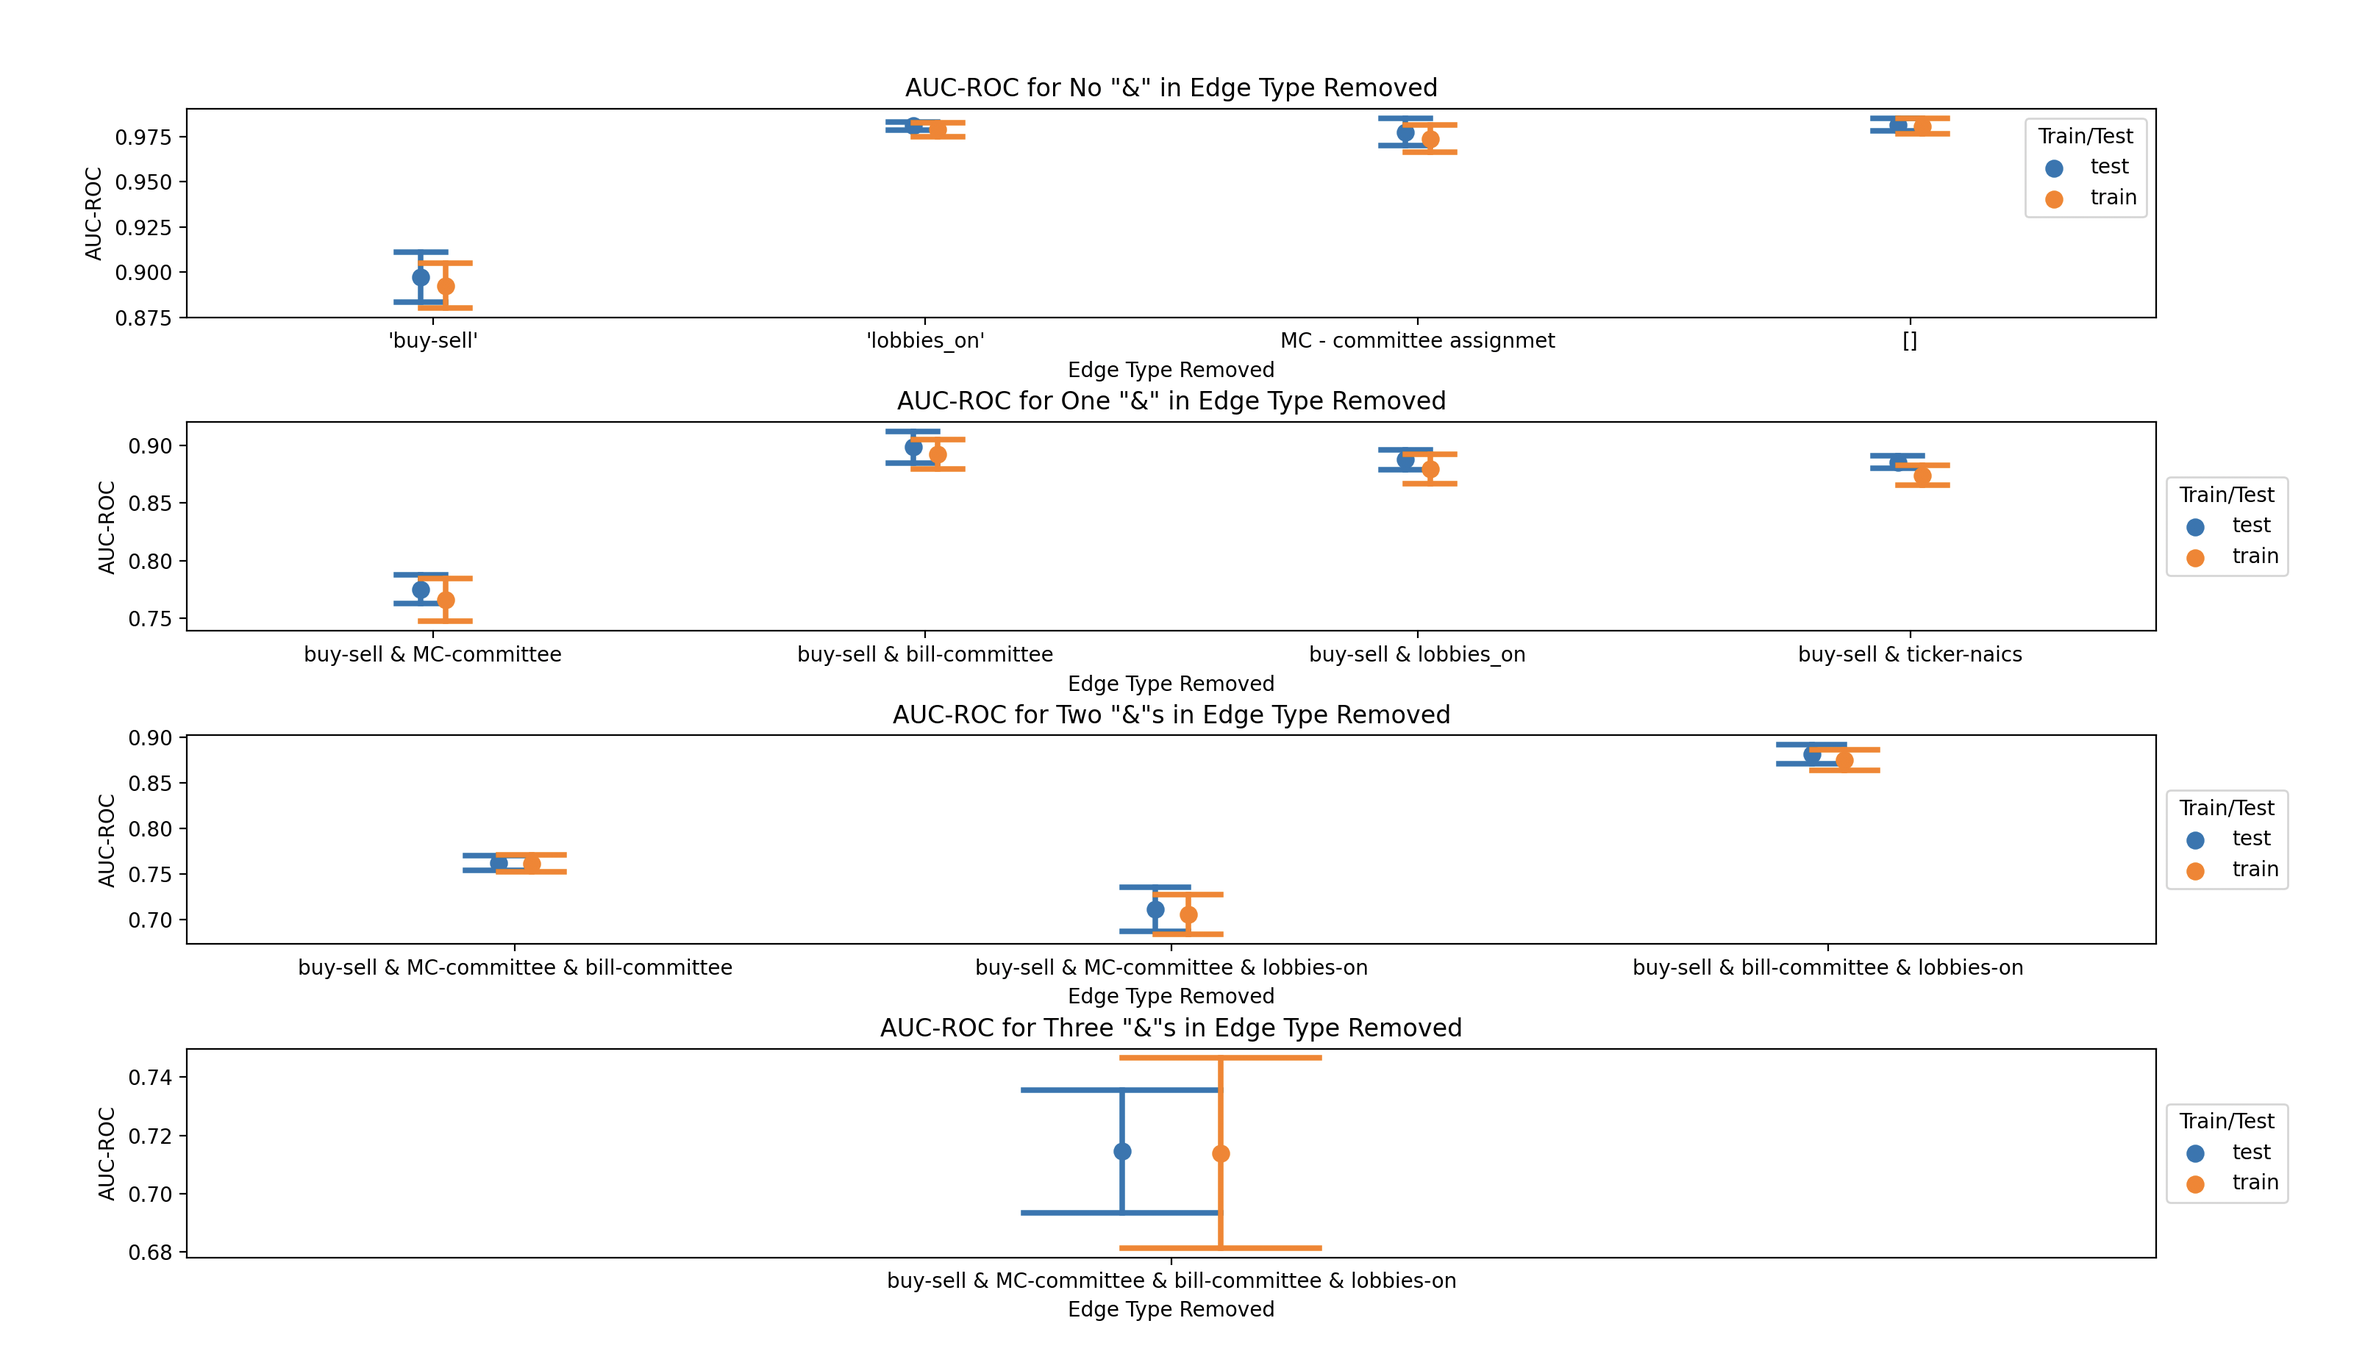
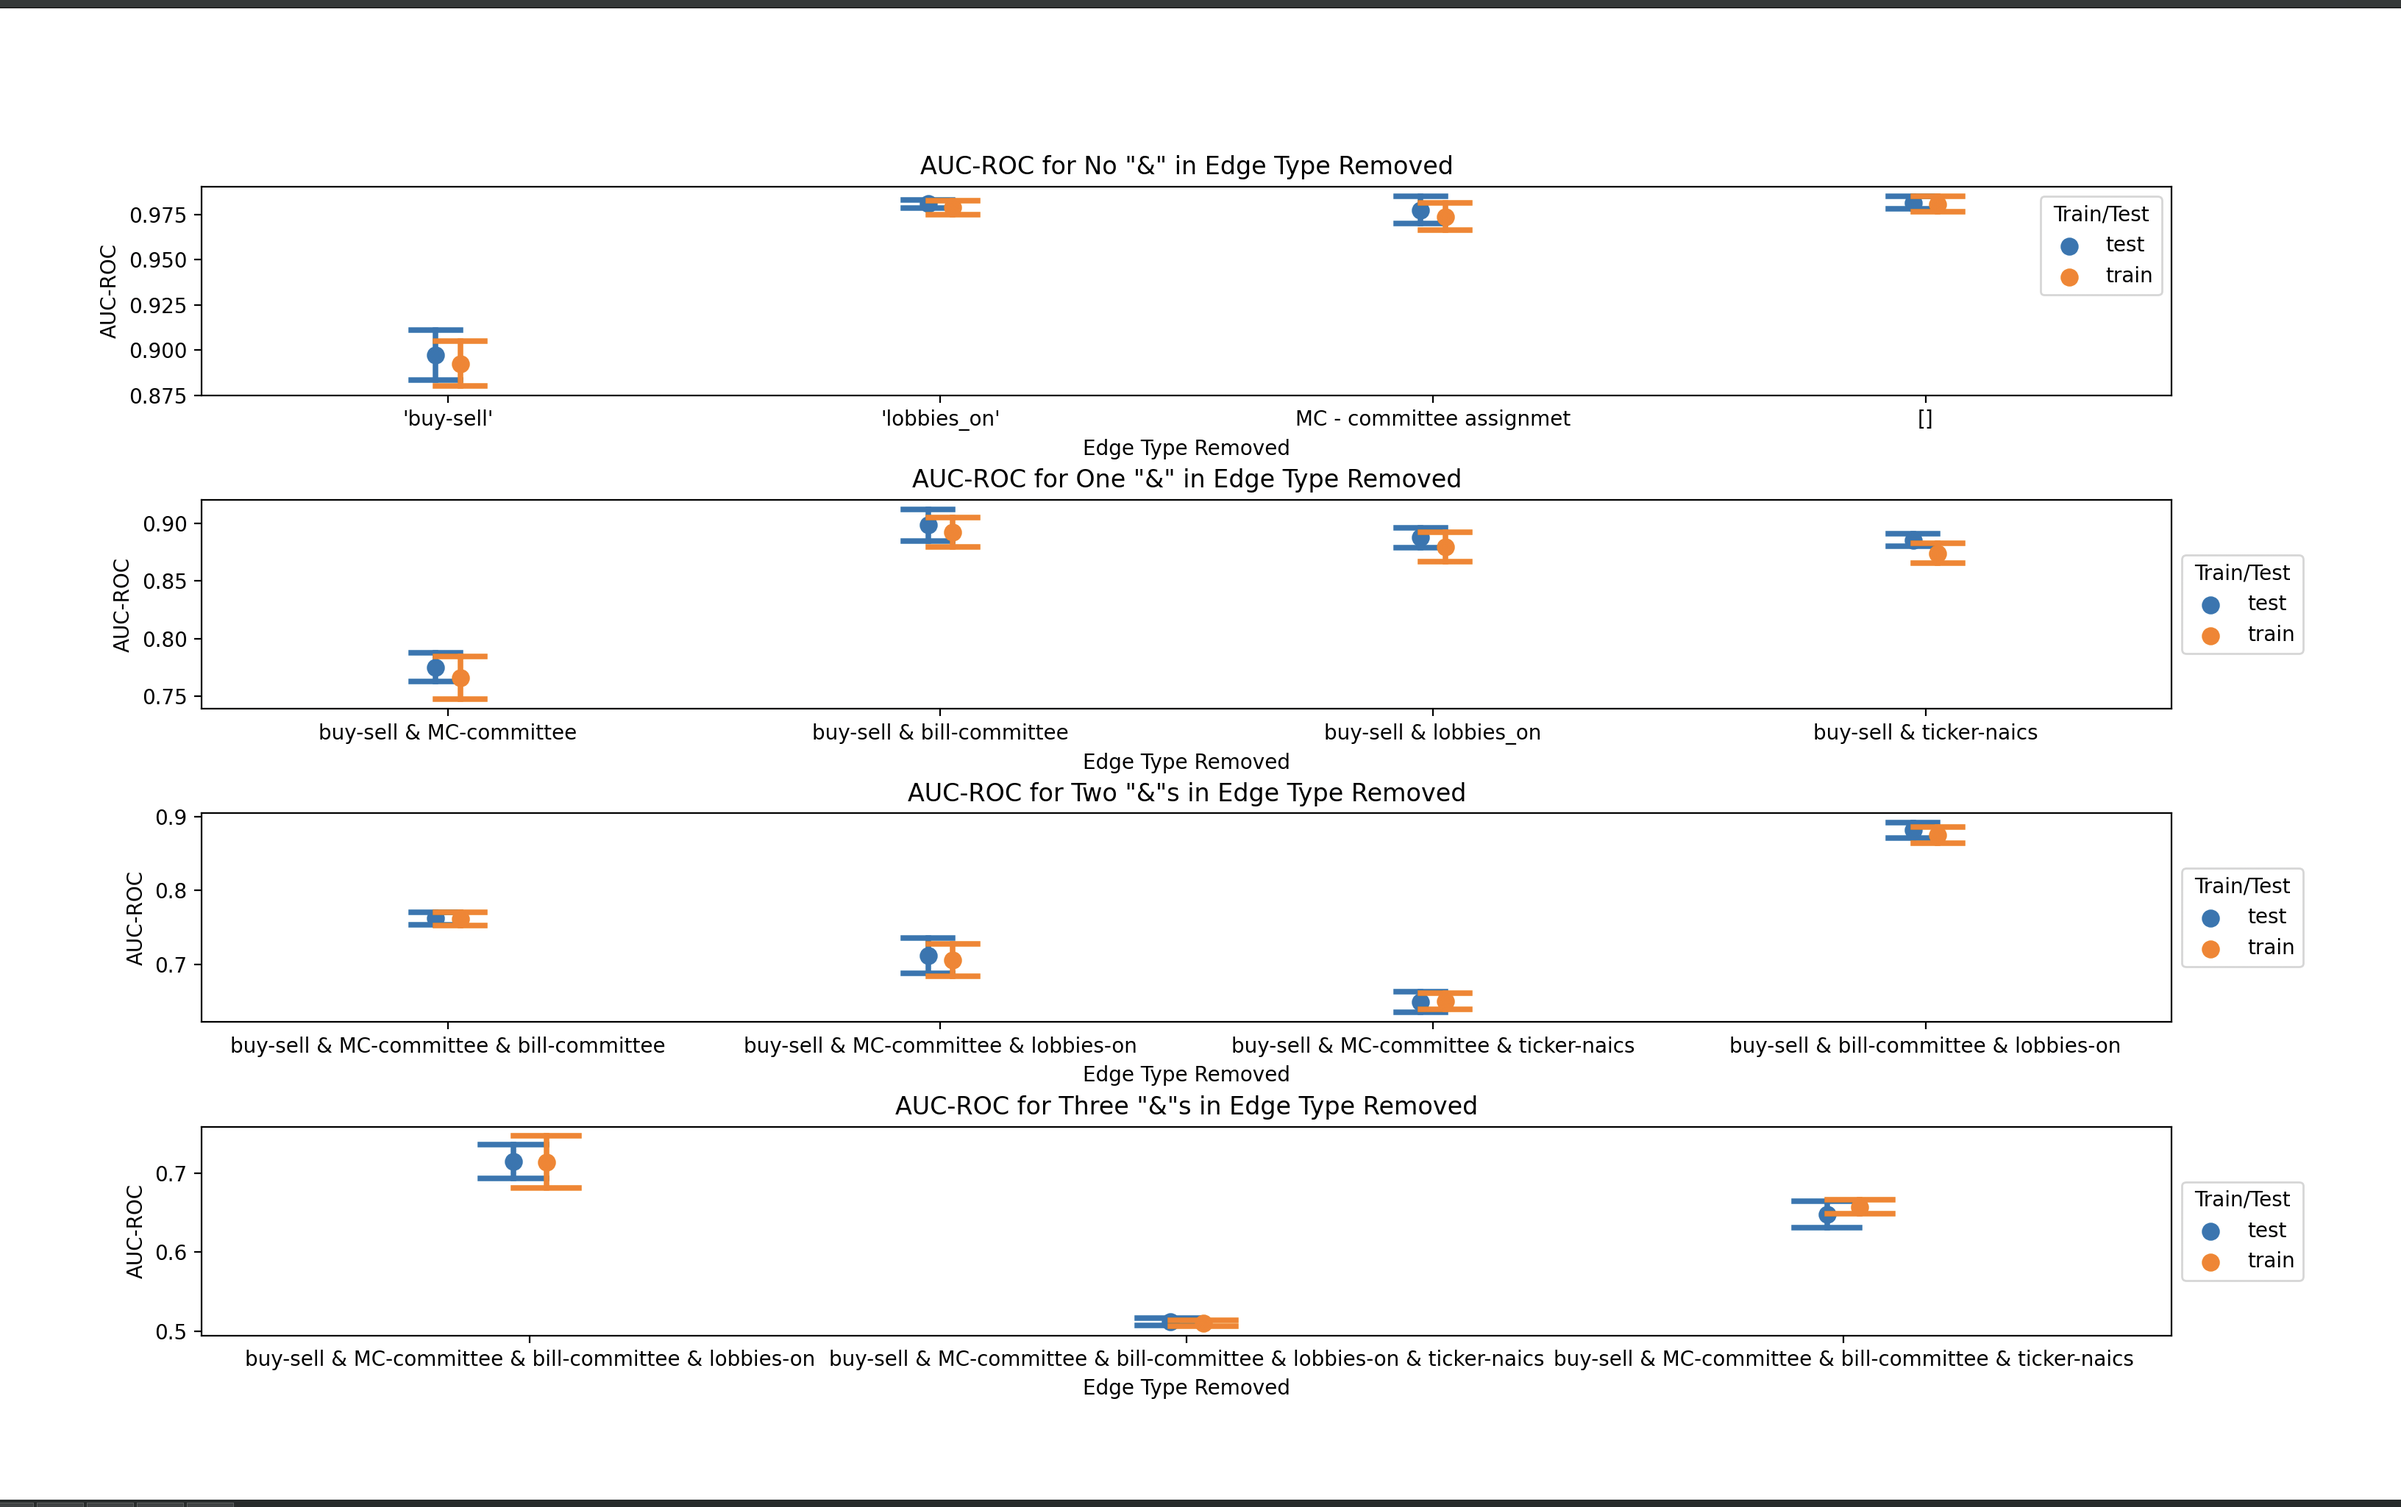
add all

diff --git a/hetero/visualize-whole.py b/hetero/visualize-whole.py
@@ -284,7 +284,7 @@ def get_thresholded_subgraph(G, node_masks, edge_masks, node_mask_threshold, edg
     # target_ticker-target_naics  congresperson 
     # add top_k edges for for target_naics for the edge type ('naics', 'classified', 'ticker')
     edge_types = [('ticker', 'classified', 'naics'), ('naics', 'rev_classified', 'ticker')]
-    top_k = 10 #At most 10 edges in the same industry
+    top_k = 20 #At most 10 edges in the same industry
     for edge_type in edge_types:
         edge_mask = edge_masks[edge_type]
 
@@ -311,7 +311,7 @@ def get_thresholded_subgraph(G, node_masks, edge_masks, node_mask_threshold, edg
     print("Ticker nodes: ", ticker_nodes)
 
     # Initialize a variable for the top_l edges and look_back period
-    top_l = 20
+    top_l = 1 # lobbying edge
     look_back = 365
 
     for edge_type in lobbies_edge_types:
@@ -547,7 +547,9 @@ shapes = {
 # read files in exp/trans_edge_not_included/results
 import os
 # folder_path = "exp/trans_edge_not_included/results_legacy"
-folder_path = "exp/trans_edge_not_included/results"
+# folder_path = "exp/trans_edge_not_included/results"
+folder_path = "exp/trans_edge_not_included/results_wyden_klac"
+
 
 pkl_files = [f for f in os.listdir(folder_path) if f.endswith('.pkl')]
 

diff --git a/hetero/visualize-barplots-subplots.py b/hetero/visualize-barplots-subplots.py
@@ -34,7 +34,7 @@ plt.title('AUC-ROC for Two "&"s in Edge Type Removed')
 plt.legend(title='Train/Test', loc='center left', bbox_to_anchor=(1, 0.5))
 
 plt.subplot(4, 1, 4)
-sns.pointplot(data=df_max_epoch[df_max_epoch['edge_type_removed'].str.count('&') > 3], x='edge_type_removed', y='auc_roc', hue='train_test', ci='sd', capsize=0.1, dodge=True, linestyles='')
+sns.pointplot(data=df_max_epoch[df_max_epoch['edge_type_removed'].str.count('&') >= 3], x='edge_type_removed', y='auc_roc', hue='train_test', ci='sd', capsize=0.1, dodge=True, linestyles='')
 plt.xlabel('Edge Type Removed')
 plt.ylabel('AUC-ROC')
 plt.title('AUC-ROC for Three "&"s in Edge Type Removed')
